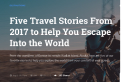
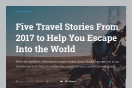
Header added

diff --git a/src/index.html b/src/index.html
@@ -14,40 +14,39 @@
         <header class="header">
             <div class="container header__content-row">
                 <div class="header__info">
-                    <div class="header__hamb-container header__thumb">
-                        <img src="@@webRoot/img/icon/hamburger.svg" alt="">
+                    <div class="header__thumb header__hamb-container">
+                        <img src="@@webRoot/img/icon/hamburger.svg" alt="hamburger icon" class="header__hamb-img">
                         <span class="small-text small-text--bold ">Section</span>
                     </div>
-                    <form class="header__thumb header__search">
-                        <button type="submit" class="header__search-btn"><img src="@@webRoot/img/icon/search.svg" alt="" ></button>
+                    <div class="header__thumb header__search-container">
+                        <button type="submit" class="header__search-btn"><img src="@@webRoot/img/icon/search.svg" alt="search icon" ></button>
                         <input type="text" placeholder="Search" class="small-text header__search-input">   
-                    </form>
+                    </div>
                 </div>
                 <div class="header__info">
-                    <div class="header__thumb">
-                        <img src="@@webRoot/img/header-img/image.jpg" alt="" class="header__subsc-img">
-                        <a href="#" class="header__subscribe">
-                            <span class="tiny-text header__subsc-link">Subscribe Now</span>
+                    <div class="header__thumb header__subsc-container">
+                        <img src="@@webRoot/img/header-img/image.jpg" alt="subscribe image" class="header__subsc-img">
+                        <a href="#" class="header__subsc-link">
+                            <span class="tiny-text header__subsc-text">Subscribe Now</span>
                             <span class="tiny-text">3 month for $19</span>
                         </a>
                     </div>
-                    <a href="#" class="header__thumb">
-                        <img src="@@webRoot/img/icon/man.svg" alt="">
+                    <button type="submit" class="header__thumb header__sign-btn">
+                        <img src="@@webRoot/img/icon/man.svg" alt="sign in icon">
                         <span class="small-text">Sign In</span>
-                    </a>
+                    </button>
                 </div>
             </div>
             <div class="container header__content-row">
                 <div class="header__info">
-                    <img src="@@webRoot/img/header-img/image-252.png" alt="" class="header__desc-img">
-                    <span class="small-text">Boston and New York Bear Brunt</span>
+                    <img src="@@webRoot/img/header-img/image-252.png" alt="statue of liberty" class="header__desc-img">
+                    <span class="small-text header__desc-container">Boston and New York Bear Brunt</span>
                 </div>
-                <div>
-                    <img src="@@webRoot/img/header-img/universal.svg" alt="">
-                </div>
-                <div>
-                    <div>
-                        <span class="small-text">Monday, January 1, 2018</span>
+                    <img src="@@webRoot/img/header-img/universal.svg" alt="universal logo" class="header__logo">
+                <div class="header__info">
+                    <p class="small-text header__thumb header__date">Monday, January 1, 2018</p>
+                    <div class="header__thumb header__weather-container">
+                        <img src="@@webRoot/img/icon/sun.svg" alt="sun icon" class="header__weather-img">
                         <span class="small-text">- 23 °C</span>
                     </div>
                 </div>
@@ -55,37 +54,37 @@
             <nav class="header__nav">
                 <ul class="container header__nav-menu">
                     <li>
-                        <a href="#" class="small-text header__nav-link">News</a>
+                        <a href="#" class="h6 header__nav-link">News</a>
                         </li>
                     <li>
-                        <a href="#" class="small-text header__nav-link">Opinion</a>
+                        <a href="#" class="h6 header__nav-link">Opinion</a>
                     </li>
                     <li>
-                        <a href="#" class="small-text header__nav-link">Science</a>
+                        <a href="#" class="h6 header__nav-link">Science</a>
                     </li>
                     <li>
-                        <a href="#" class="small-text header__nav-link">Life</a>
+                        <a href="#" class="h6 header__nav-link">Life</a>
                     </li>
                     <li>
-                        <a href="#" class="small-text header__nav-link">Travel</a>
+                        <a href="#" class="h6 header__nav-link">Travel</a>
                     </li>
                     <li>
-                        <a href="#" class="small-text header__nav-link">Moneys</a>
+                        <a href="#" class="h6 header__nav-link">Moneys</a>
                     </li>
                     <li>
-                        <a href="#" class="small-text header__nav-link">Art & Design</a>
+                        <a href="#" class="h6 header__nav-link">Art & Design</a>
                     </li>
                     <li>
-                        <a href="#" class="small-text header__nav-link">Sports</a>
+                        <a href="#" class="h6 header__nav-link">Sports</a>
                     </li>
                     <li>
-                        <a href="#" class="small-text header__nav-link">People</a>
+                        <a href="#" class="h6 header__nav-link">People</a>
                     </li>
                     <li>
-                        <a href="#" class="small-text header__nav-link">Health</a>
+                        <a href="#" class="h6 header__nav-link">Health</a>
                     </li>
                     <li>
-                        <a href="#" class="small-text header__nav-link">Education</a>
+                        <a href="#" class="h6 header__nav-link">Education</a>
                     </li>
                 </ul>
             </nav>

diff --git a/src/assets/sass/common/header.scss b/src/assets/sass/common/header.scss
@@ -1,8 +1,5 @@
 .header {
-    
-    &__hamb-container {
-        
-    }
+
     &__content-row {
         display: flex;
         justify-content: space-between;
@@ -31,11 +28,17 @@
             padding-left: 25px;
         }
     }
+    
+    &__hamb-container {
+        gap: 15px;
+        border-right: 1px solid $color-grey-15;
+        padding: 15px 0;
+    }
 
     &__search {
         display: flex;
         align-items: center;
-        width: 300px;
+        width: 200px;
         margin: 0 auto;       
     }
   
@@ -49,92 +52,39 @@
         width: 100%;  
     }
   
-    &__search-btn {
-        cursor: pointer;
-    }
+    &__subsc-img {
+        width: 60px;
+        margin-top: 7px;
+    }    
 
-    &__subscribe {
+    &__subsc-link {
         display: flex;
         flex-direction: column;
         justify-content: center;
     }
 
-    &__subsc-img {
-        width: 60px;
-        border: 3px solid $color-grey-30;
-        border-collapse: collapse;
+    &__subsc-text {
+        color: $color-grey-100;
+        font-weight: 700;
     }
 
-    &__subsc-link {
-        color: $color-darkgrey;
-        font-weight: 700;
+    &__sign-btn {
+        border: none;
+        outline: none;
+        background: transparent;
     }
 
     &__desc-img {
         max-width: 100px;
-        margin-left: 20px;
+        margin: 0 15px 0 20px;
     }
-    /*
-    .hamb-btn {
-        display: flex;
-        align-items: center;
-        width: 20px;
-        height: 20px;
-        cursor: pointer;
-        z-index: 1;
+
+    &__logo {
+        
     }
-       
-    &__menu {
-        display: block;
-        position: fixed;
-        visibility: hidden;
-        left: -100%;
-        width: 300px;
-        height: 100%;
-        margin: 0;
-        padding: 80px 0;
-        list-style: none;
-        background-color: #ECEFF1;
-        box-shadow: 1px 0px 6px rgba(0, 0, 0, .2);
-        transition-duration: .25s;
-    }
-       
-    &__menu-item {
-        display: block;
-        padding: 12px 24px;
-        color: #333;
-        font-family: 'Roboto', sans-serif;
-        font-size: 20px;
-        font-weight: 600;
-        text-decoration: none;
-        transition-duration: .25s;
-    }
-      
-    &__menu-item:hover {
-        background-color: #CFD8DC;
-    }
-       
-       
-    #hamburger {
-        opacity: 0;
-    }
-       
-    #hamburger:checked {
-        display: none;
-    }
-      
-    #hamburger:checked ~ &__menu {
-        visibility: visible;
-        left: auto;
-    }
-    
-    &__hamb-img {
-        margin-right: 15px;
-    }
-    */
 
     &__nav {
-        background-color: $color-darkgrey;
+        background-color: $color-grey-100;
         padding: 17px 0 18px;
     }
 
@@ -142,13 +92,9 @@
         display: flex;
         justify-content: space-between;
         align-items: center;
-        gap: 46;
     }
 
     &__nav-link {
-        letter-spacing: 0.5px;
-        text-transform: uppercase;
         color: $color-white;
-
     }
 }

diff --git a/src/assets/sass/global/global.scss b/src/assets/sass/global/global.scss
@@ -34,28 +34,29 @@
 }
 
 .h6 {
-    font-size: $text-font;
+    font-family: $text-font;
     font-size: 14px;
     line-height: 20px;
     letter-spacing: 0.5px;
     text-transform: uppercase;
+    font-weight: 700;
 }
 
 .medium-text {
     font-family: $text-font;
     font-size: 18px;
     line-height: 30px;
-    color: $color-grey;
+    color: $color-grey-85;
 }
 
 .small-text {
     font-family: $text-font;
     font-size: 14px;
     line-height: 20px;
-    color: $color-grey;
+    color: $color-grey-85;
 
     &--bold {
-        color: $color-darkgrey;
+        color: $color-grey-100;
         font-weight: 700;
     }
 }
@@ -64,5 +65,5 @@
     font-family: $text-font;
     font-size: 12px;
     line-height: 15px;
-    color: $color-lightgrey;
+    color: $color-grey-50;
 }

diff --git a/src/assets/sass/variables/_colors.scss b/src/assets/sass/variables/_colors.scss
@@ -1,6 +1,8 @@
 $color-white: #FFFFFF;
 $color-grey-15: #D9DADB;
 $color-grey-30: #BCBFC2;  
-$color-lightgrey: #939699;
-$color-grey: #4B5157;
-$color-darkgrey: #262D33;
+$color-grey-50: #939699;
+$color-grey-85: #4B5157;
+$color-grey-100: #262D33;
+
+// Цифры указывают на степень насыщенности цвета, по возрастанию: от светлого к темному. Значения взяты из макета.

diff --git a/gulpfile.babel.js b/gulpfile.babel.js
@@ -23,7 +23,7 @@ const localServer = {
   src: 'src/',
   assets: './src/assets/',
   out: './dist/',
-  port: 9093,
+  port: 9091,
   url: 'http://localhost:',
 }
 

diff --git a/src/assets/sass/global/resets.scss b/src/assets/sass/global/resets.scss
@@ -17,3 +17,7 @@ ul {
 a {
     text-decoration: none;
 }
+
+button {
+    cursor: pointer;
+}
